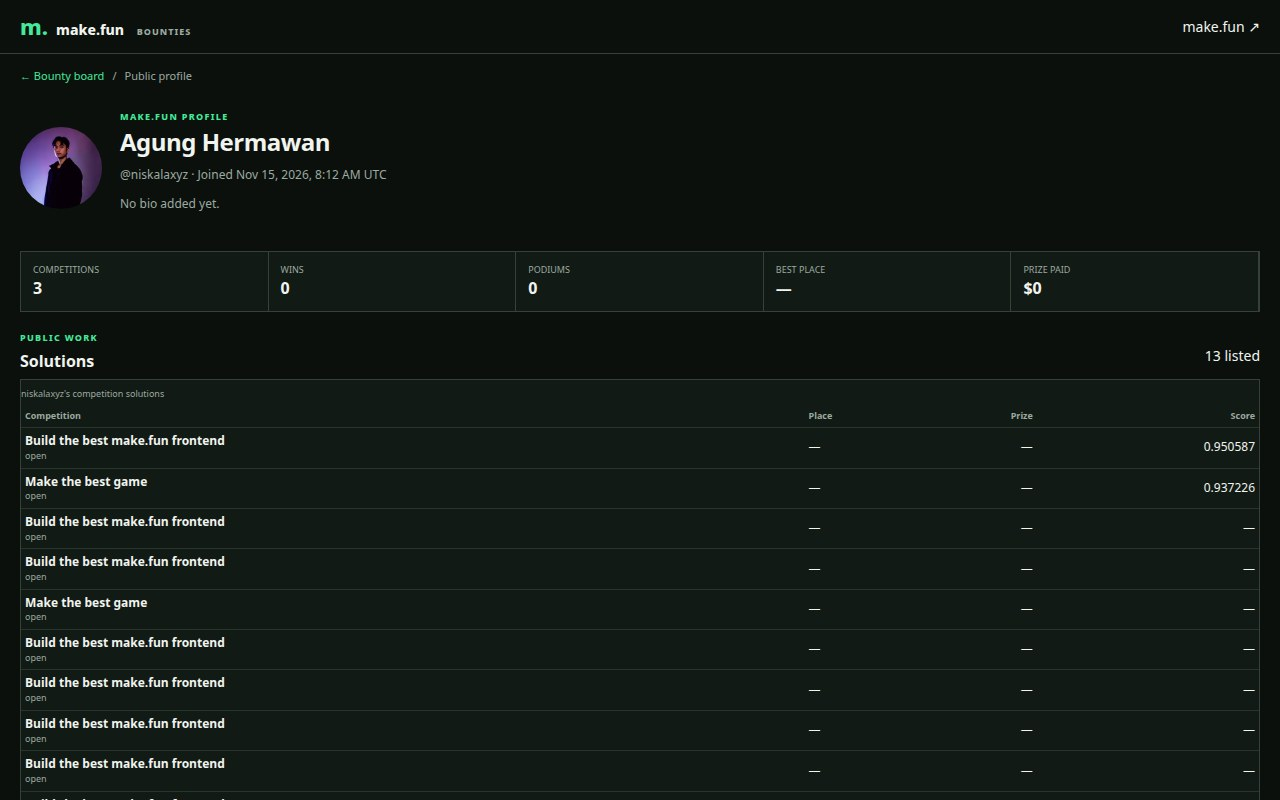
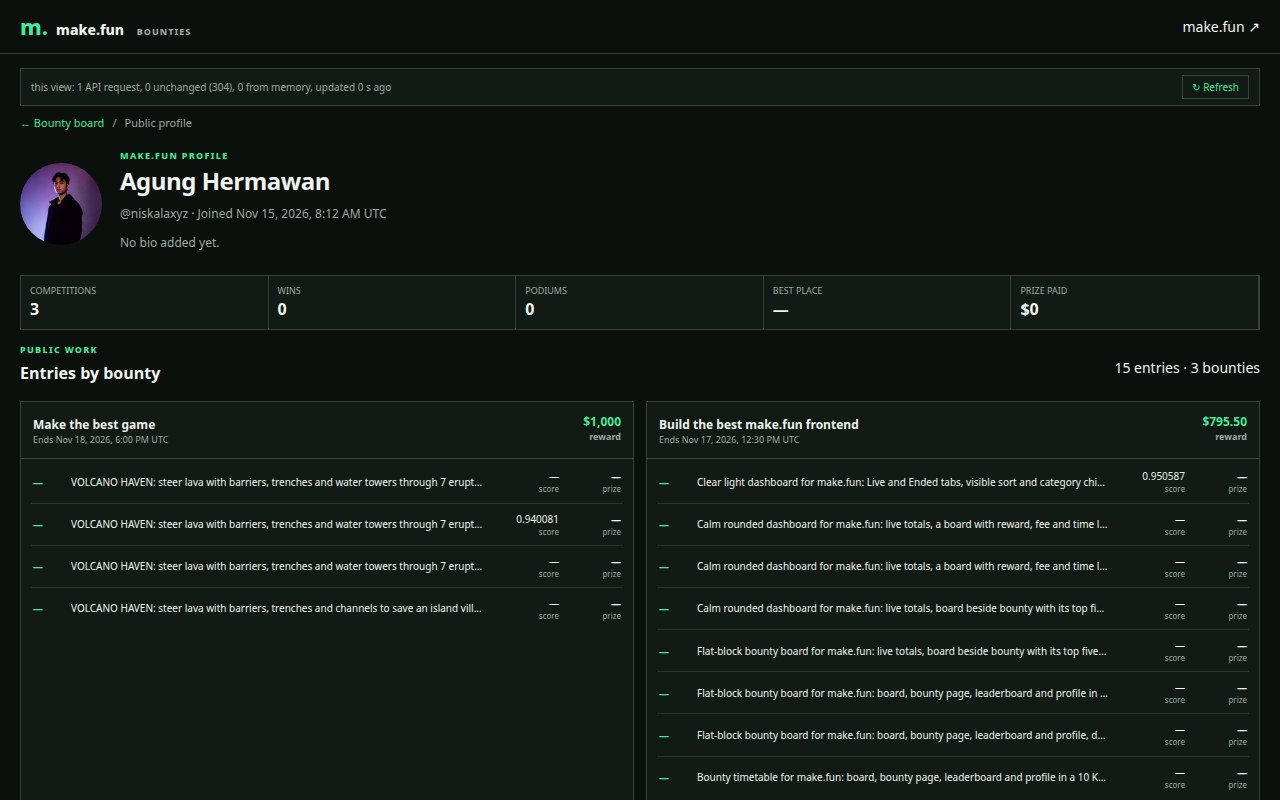
Persistent board rail, rebalanced bounty detail, windowed leaderboard with entrant card, profile cards, request transparency (2,143 gzip)

diff --git a/app/board.js b/app/board.js
@@ -1,14 +1,9 @@
 import {boardData} from './api.js';
-const lazyBountyDetail=()=>import('./bounty.js');
-const esc=x=>String(x??'').replace(/[&<>"']/g,c=>`&#${c.charCodeAt(0)};`);
-const cash=x=>Number(x??0).toLocaleString('en-US',{style:'currency',currency:'USD',minimumFractionDigits:Number.isInteger(Number(x))?0:2});
-const countdown=x=>{let n=new Date(x).getTime()-Date.now();if(!Number.isFinite(n)||n<=0)return'Ended';let d=Math.floor(n/864e5),h=Math.floor(n%864e5/36e5),m=Math.floor(n%36e5/6e4);return d?`${d}d ${h}h`:h?`${h}h ${m}m`:`${m}m`};
-function boardView(data,selected){
- let all=data.items||[],now=Date.now(),items=[...all].sort((a,b)=>(new Date(b.deadline)>now)-(new Date(a.deadline)>now)||new Date(a.deadline)-new Date(b.deadline)),current=items.find(x=>x.slug===selected)||items.find(x=>new Date(x.deadline)>now)||items[0],pot=items.reduce((s,x)=>s+Number(x.potUsd||x.rewardAmount||0),0),entries=items.reduce((s,x)=>s+Number(x.submissionCount||0),0);
- return {current,html:`<div class="board-summary"><span><b>${items.filter(x=>new Date(x.deadline)>now).length}</b>TAKING ENTRIES</span><span><b>${cash(pot)}</b>LIVE POTS</span><span><b>${entries.toLocaleString()}</b>ENTRIES TOTAL</span><span><b>${items.length}</b>BOUNTIES</span></div><div class="split"><section class="list-pane"><div class="tools"><input id="search" type="search" placeholder="Search bounties" aria-label="Search bounties"><select id="sort" aria-label="Sort bounties"><option value="closing">Closing soonest</option><option value="pot">Largest live pot</option><option value="entries">Most entries</option></select><select id="fee" aria-label="Filter entry fee"><option value="any">Any fee</option><option value="free">Free</option><option value="paid">Paid</option></select></div><div class="board-head"><span>Reward · bounty</span><span>Time left</span><span>Entry</span><span>Entries</span></div><ul class="board">${items.map(b=>{
-  let open=new Date(b.deadline)>now,fee=Number(b.entryFeeUsd||0),live=Number(b.potUsd||b.rewardAmount||0),pct=Math.max(2,Math.min(100,(new Date(b.deadline)-now)/((new Date(b.deadline)-new Date(b.publishedAt||now))||1)*100));
-  return `<li class="board-row ${b.slug===current?.slug?'selected':''}" data-title="${esc((b.title+' '+(b.category||'')).toLowerCase())}" data-fee="${fee?1:0}" data-pot="${live}" data-entries="${Number(b.submissionCount||0)}"><a class="title-link" data-pot="${cash(live)} live pot" href="#/bounty/${encodeURIComponent(b.slug)}"><span class="status ${open?'':'closed'}">${open?'TAKING ENTRIES':'CLOSED'} · ${esc(b.category||'BOUNTY')}</span><strong>${esc(b.title)}</strong><small>${esc((b.skills||[]).slice(0,3).join(' · ')||`${b.submissionCount||0} submissions`)}</small></a><div class="deadline" data-deadline="${esc(b.deadline)}">${countdown(b.deadline)}<div class="bar"><i style="width:${pct}%"></i></div></div><div><span class="fee">${fee?cash(fee):'Free'}</span></div><div class="entries">${Number(b.submissionCount||0).toLocaleString()}<small>entries</small></div></li>`
- }).join('')}</ul></section><section class="detail-pane" id="detail"></section></div>`}
-}
-function boardControls(root){const filter=()=>{let q=root.querySelector('#search').value.toLowerCase(),f=root.querySelector('#fee').value,s=root.querySelector('#sort').value,ul=root.querySelector('.board'),rows=[...ul.children];rows.sort((a,b)=>s==='pot'?b.dataset.pot-a.dataset.pot:s==='entries'?b.dataset.entries-a.dataset.entries:0).forEach(x=>ul.append(x));rows.forEach(r=>r.hidden=!(r.dataset.title.includes(q)&&(f==='any'||(f==='free'?r.dataset.fee==='0':r.dataset.fee==='1'))))};root.querySelector('#search').addEventListener('input',filter);root.querySelector('#sort').addEventListener('change',filter);root.querySelector('#fee').addEventListener('change',filter)}
-export async function show(root,selected){let data=await boardData(),view=boardView(data,selected);root.innerHTML=view.html;boardControls(root);if(view.current){let detail=await lazyBountyDetail();await detail.show(root.querySelector('#detail'),view.current.slug,true)}document.title=selected?`${view.current&&view.current.title||'Bounty'} · make.fun`:'Live bounty board | make.fun'}
+import {ready as styleReady} from './ui.js';
+await styleReady;
+const lazyBountyDetail=()=>import('./bounty.js'),lazyLeaderboard=()=>import('./leaderboard.js');
+const esc=x=>String(x??'').replace(/[&<>"']/g,c=>`&#${c.charCodeAt(0)};`),cash=x=>Number(x??0).toLocaleString('en-US',{style:'currency',currency:'USD',minimumFractionDigits:Number.isInteger(Number(x))?0:2});
+const countdown=x=>{let n=new Date(x)-Date.now();if(!Number.isFinite(n)||n<=0)return'Ended';let d=Math.floor(n/864e5),h=Math.floor(n%864e5/36e5),m=Math.floor(n%36e5/6e4);return d?`${d}d ${h}h`:h?`${h}h ${m}m`:`${m}m`};
+function rail(items,current){let now=Date.now();return `<section class="list-pane"><div class="rail-title"><b>Live board</b><span>${items.length} bounties</span></div><div class="tools"><div class="rail-tabs"><button class="active" data-state="live">Live</button><button data-state="ended">Ended</button></div><input id="search" type="search" placeholder="Filter bounties" aria-label="Filter bounties"><select id="sort"><option value="closing">Closing</option><option value="pot">Largest pot</option><option value="entries">Most entries</option></select></div><div class="board">${items.map(b=>{let open=new Date(b.deadline)>now,fee=Number(b.entryFeeUsd||0),pot=Number(b.potUsd||b.rewardAmount||0),soon=open&&new Date(b.deadline)-now<864e5;return `<a class="board-row ${b.slug===current?'selected':''}" data-state="${open?'live':'ended'}" data-title="${esc(b.title.toLowerCase())}" data-pot="${pot}" data-entries="${Number(b.submissionCount||0)}" href="#/bounty/${encodeURIComponent(b.slug)}"><span class="row-main"><i class="status ${open?'':'closed'}">${open?'LIVE':'ENDED'} ${soon?'· CLOSING SOON':''}</i><b>${esc(b.title)}</b><small>${esc(b.category||'Bounty')}</small></span><span class="rail-pot">${cash(pot)}<small>pot · ${fee?cash(fee):'free'} fee</small></span><span class="rail-time" data-deadline="${esc(b.deadline)}">${countdown(b.deadline)}<small>${Number(b.submissionCount||0).toLocaleString()} entries</small></span></a>`}).join('')}</div></section>`}
+function controls(root){let category='All',rows=[...root.querySelectorAll('.board-row')],categories=['All',...new Set(rows.map(r=>r.querySelector('.row-main small').textContent))],chips=document.createElement('div');chips.className='category-chips';chips.innerHTML=categories.map((x,i)=>`<button class="${i?'':'active'}" data-category="${esc(x)}">${esc(x)}</button>`).join('');root.querySelector('.tools').after(chips);let apply=()=>{let q=root.querySelector('#search').value.toLowerCase(),sort=root.querySelector('#sort').value,list=root.querySelector('.board');rows=[...list.children];rows.sort((a,b)=>sort==='pot'?b.dataset.pot-a.dataset.pot:sort==='entries'?b.dataset.entries-a.dataset.entries:new Date(a.querySelector('[data-deadline]')?.dataset.deadline||0)-new Date(b.querySelector('[data-deadline]')?.dataset.deadline||0)).forEach(x=>list.append(x));rows.forEach(r=>r.hidden=!(r.dataset.title.includes(q)&&(category==='All'||r.querySelector('.row-main small').textContent===category)&&(root.dataset.state==='ended'?r.dataset.state==='ended':r.dataset.state==='live')))};root.querySelector('#search').addEventListener('input',apply);root.querySelector('#sort').addEventListener('change',apply);chips.addEventListener('click',e=>{let b=e.target.closest('button');if(!b)return;category=b.dataset.category;chips.querySelectorAll('button').forEach(x=>x.classList.toggle('active',x===b));apply()});root.querySelectorAll('[data-state]').forEach(b=>b.addEventListener('click',()=>{if(b.tagName==='BUTTON'){root.dataset.state=b.dataset.state;root.querySelectorAll('.rail-tabs button').forEach(x=>x.classList.toggle('active',x===b));apply()}}));}
+export async function show(root,selected,leaderboard=false){let data=await boardData(),items=data.items||[],now=Date.now(),sorted=[...items].sort((a,b)=>(new Date(b.deadline)>now)-(new Date(a.deadline)>now)||new Date(a.deadline)-new Date(b.deadline)),current=sorted.find(x=>x.slug===selected)||sorted.find(x=>new Date(x.deadline)>now)||sorted[0];root.innerHTML=`<div class="board-summary"><span><b>${sorted.filter(x=>new Date(x.deadline)>now).length}</b>LIVE</span><span><b>${cash(sorted.reduce((s,x)=>s+Number(x.potUsd||x.rewardAmount||0),0))}</b>LIVE POTS</span><span><b>${sorted.reduce((s,x)=>s+Number(x.submissionCount||0),0).toLocaleString()}</b>ENTRIES</span><span><b>${sorted.length}</b>BOUNTIES</span></div><div class="split">${rail(sorted,current?.slug)}<section class="detail-pane" id="detail"></section></div>`;controls(root);let detail=root.querySelector('#detail');if(leaderboard){let view=await lazyLeaderboard();await view.show(detail,selected||current?.slug)}else if(current){let view=await lazyBountyDetail();await view.show(detail,current.slug,true)}document.title=leaderboard?'Live leaderboard | make.fun':`${current?.title||'Live bounty board'} | make.fun`}

diff --git a/app/style.css b/app/style.css
@@ -3,3 +3,8 @@
 .title-link:before{content:attr(data-pot) " ·";display:inline;color:var(--g);font-size:8px;font-weight:800;margin-right:4px}.title-link strong{font-size:10px}.split{grid-template-columns:48% 52%}.board-head,.board-row{grid-template-columns:minmax(0,1fr) 62px 46px 54px;gap:5px}.board-row{padding:7px 8px}.status{font-size:7px}
 .detail-stats{border:1px solid var(--l);background:var(--p);margin:9px 0;padding:10px 12px;gap:8px}.detail-stats span{font-weight:800;letter-spacing:.45px}.detail-stats b{display:block;color:#fff;font-size:19px;line-height:1.2;margin-top:3px}.detail-stats>div:first-child b{color:var(--g)}.reward-card{margin:0 0 8px;padding:12px 14px}.reward-card h2{font-size:15px;margin:0 0 5px}.reward-card table{font-size:11px}.reward-card th,.reward-card td{padding:6px 7px}.pot-note{margin:0 0 9px}.detail-copy h2{margin:8px 0 4px}.prose{margin:0 0 8px;max-height:190px}.rules{margin:0 0 7px}
 .reward-card th,.reward-card td{padding:2px 5px;line-height:1.15}
+.transparency{display:flex;justify-content:space-between;align-items:center;background:#121a15;border:1px solid var(--l);padding:6px 10px;margin-bottom:9px;color:var(--m);font-size:10px}.transparency button,.rail-tabs button{background:transparent;color:var(--g);border:1px solid var(--l);padding:4px 9px;cursor:pointer;font:inherit}.board-summary{margin-bottom:8px}.split{grid-template-columns:39% 61%;min-height:670px}.list-pane{max-height:710px;overflow:auto}.rail-title{display:flex;justify-content:space-between;padding:10px 12px;color:var(--g)}.rail-title span{color:var(--m);font-size:10px}.tools{display:grid;grid-template-columns:auto minmax(80px,1fr) auto;align-items:center}.rail-tabs{display:flex;gap:3px}.rail-tabs button.active{background:var(--g);color:#06100a}.tools select{max-width:115px}.board-row{display:grid;grid-template-columns:minmax(0,1fr) 102px 78px;gap:8px;text-decoration:none}.row-main b,.row-main small,.rail-pot small,.rail-time small{display:block}.row-main b{font-size:11px;line-height:1.25}.row-main small,.rail-pot small,.rail-time small{color:var(--m);font-size:9px}.rail-pot{color:var(--g);font-size:11px;font-weight:700}.rail-time{text-align:right;font-size:10px}.status{font-size:8px}.detail-pane{padding:16px 18px}.lead{font-size:11px;color:var(--m);margin:0;max-width:470px}.enter{white-space:nowrap;align-self:center;margin:0}.detail-stats{grid-template-columns:repeat(4,minmax(0,1fr));padding:9px}.detail-stats b{font-size:16px}.detail-stats small{display:block;color:var(--m);font-size:9px;line-height:1.3}.detail-tabs{display:flex;gap:18px;border-bottom:1px solid var(--l);margin:0 0 10px}.detail-tabs a{padding:6px 2px;color:var(--m);font-size:10px}.detail-tabs a.active{color:var(--g);border-bottom:2px solid var(--g)}.prize-layout{display:grid;grid-template-columns:minmax(0,1.2fr) minmax(190px,.8fr);gap:10px}.reward-card,.phase-card{background:var(--p);padding:11px;border:1px solid var(--l);min-width:0}.reward-card h2,.phase-card h2{font-size:13px}.reward-head,.reward-band{display:grid;grid-template-columns:55px minmax(30px,1fr) 54px 58px 58px;gap:5px;align-items:center}.reward-head{color:var(--m);font-size:8px;border-bottom:1px solid var(--l);padding:4px 0}.reward-band{font-size:9px;padding:6px 0;border-bottom:1px solid #28352d}.reward-band>span:first-child{color:var(--g);font-weight:800}.reward-band strong{text-align:right;font-size:9px}.reward-band i{height:5px;background:#334239;border-radius:4px;overflow:hidden}.reward-band i b{display:block;height:100%;background:var(--g);border-radius:4px}.tiny-note{font-size:8px;color:var(--m);margin:6px 0 0}.phase-list{display:grid;gap:4px}.phase-list p{display:grid;grid-template-columns:9px 1fr auto;gap:5px;align-items:center;margin:0;font-size:9px;color:var(--m);padding:3px 0}.phase-list i{width:6px;height:6px;border:1px solid #718078;border-radius:50%}.phase-list b{font-size:9px;color:var(--t);text-align:right}.phase-list .now i{background:var(--g);border-color:var(--g)}.phase-list .now span,.phase-list .now b{color:var(--g)}.detail-copy{margin-top:12px}.detail-copy h2{font-size:13px}.detail-copy .prose{font-size:10px;max-height:130px}.leader-hero{margin:8px 0}.leader-hero p:last-child{color:var(--m);font-size:11px;margin:0}.leader-stats{display:grid;grid-template-columns:repeat(4,1fr);border:1px solid var(--l);background:var(--p);margin:10px 0}.leader-stats>div{padding:10px;border-right:1px solid var(--l)}.leader-stats span,.card-stat span{display:block;color:var(--m);font-size:8px;letter-spacing:.6px}.leader-stats b{font-size:15px}.leader-stats small{font-size:10px;color:var(--g)}.leader-filter{display:flex;justify-content:space-between;align-items:end;margin:8px 0}.leader-filter label{display:flex;align-items:center;gap:8px;font-size:10px;color:var(--m)}.leader-filter input{width:220px}.leader-filter>span{color:var(--m);font-size:9px}.leader-layout{display:grid;grid-template-columns:minmax(0,1fr) 245px;gap:12px}.virtual-list{height:480px;overflow:auto;border:1px solid var(--l);background:var(--p)}.virtual-head,.leader-row{display:grid;grid-template-columns:45px minmax(130px,1fr) minmax(120px,1fr) 65px 64px;gap:8px;align-items:center}.virtual-head{position:sticky;top:0;z-index:2;background:#1a241d;color:var(--m);font-size:8px;padding:8px}.leader-row{width:100%;height:65px;text-align:left;background:transparent;border:0;border-top:1px solid #28352d;color:var(--t);padding:6px 8px;font:inherit;cursor:pointer;font-size:10px}.leader-row:hover,.leader-row.chosen{background:#183328}.leader-row span:nth-child(2) b,.leader-row small{display:block}.leader-row small{font-size:8px;color:var(--m);white-space:nowrap;overflow:hidden;text-overflow:ellipsis}.rank{color:var(--g);font-weight:800}.score-cell{font-variant-numeric:tabular-nums}.entrant-card{border:1px solid var(--l);background:var(--p);padding:14px;align-self:start;min-height:300px}.entrant-card .avatar{width:54px;height:54px;float:right}.entrant-card h2{font-size:16px}.entrant-card>.muted{font-size:10px}.card-stat{display:flex;justify-content:space-between;border-top:1px solid #28352d;padding:7px 0;gap:8px}.card-stat b{text-align:right;font-size:10px}.card-stat b small{display:block;color:var(--m);font-size:8px;font-weight:400}.entrant-card .button{clear:both}.solution-grid{display:grid;grid-template-columns:repeat(2,minmax(0,1fr));gap:12px;margin-top:10px}.solution-card{border:1px solid var(--l);background:var(--p);min-width:0}.solution-card header{display:flex;justify-content:space-between;gap:8px;padding:12px;border-bottom:1px solid var(--l)}.solution-card header a{font-weight:700;font-size:12px}.solution-card header small{display:block;color:var(--m);font-size:9px}.solution-card header strong{text-align:right;color:var(--g);font-size:12px;white-space:nowrap}.card-entries{padding:2px 10px}.solution-entry{display:grid;grid-template-columns:30px minmax(0,1fr) 68px 54px;gap:8px;align-items:center;padding:8px 2px;border-bottom:1px solid #28352d;font-size:10px}.solution-entry:last-child{border:0}.solution-entry .place{color:var(--g);font-weight:800}.solution-entry .entry-title{white-space:nowrap;overflow:hidden;text-overflow:ellipsis}.solution-entry .entry-score,.solution-entry>b{text-align:right;font-variant-numeric:tabular-nums}.solution-entry small{display:block;color:var(--m);font-size:8px;font-weight:400}.profile-head{padding:10px 0}.profile-head .bio{margin:5px 0}.record{margin:8px 0 14px}.record>div{padding:9px}
+@media(max-width:900px){.split{grid-template-columns:1fr}.list-pane{max-height:440px;border-right:0;border-bottom:1px solid var(--l)}.detail-pane{padding:14px}.leader-layout{grid-template-columns:1fr}.entrant-card{display:grid;grid-template-columns:1fr 1fr}.prize-layout{grid-template-columns:1fr}.solution-grid{grid-template-columns:1fr}}
+.category-chips{display:flex;gap:5px;overflow:auto;padding:5px 8px;border-bottom:1px solid var(--l);scrollbar-width:thin}.category-chips button{white-space:nowrap;border:1px solid #354139;border-radius:12px;background:#111913;color:#b6c3ba;font:9px system-ui;padding:3px 9px;cursor:pointer}.category-chips button.active,.category-chips button:hover{background:#45e99a;color:#07110b;border-color:#45e99a;font-weight:700}
+.prose h1,.prose h2,.prose h3,.prose h4,.prose h5,.prose h6{font-size:inherit;line-height:inherit;margin:7px 0 3px;color:var(--t)}.prose h1{font-size:14px}.prose h2{font-size:13px}
+.rules h1,.rules h2,.rules h3,.rules h4,.rules h5,.rules h6{font:inherit;color:var(--t);margin:5px 0 2px}

diff --git a/app/leaderboard.js b/app/leaderboard.js
@@ -1,43 +1,8 @@
-import { leaderboardData } from './api.js';
-import { esc, money } from './format.js';
-
-export async function show(root, slug) {
-  const data = await leaderboardData(slug);
-  const entries = data.entries || [];
-  const columns = (data.columns || []).filter((c) => !c.hidden);
-  const cols = columns.length ? columns : [{ key: 'score', title: 'Score', source: '', precision: 2 }];
-  const record = entries.some((e) => e.record || e.judgeRecord || e.judge);
-  const pages = Math.max(1, Math.ceil(entries.length / 50));
-  let page = 0;
-  const heading = data.competition?.title || data.title || slug;
-  document.title = `Leaderboard · ${heading} | make.fun`;
-  root.innerHTML = `<nav class="crumb"><a href="#/bounty/${encodeURIComponent(slug)}">← ${esc(heading)}</a><span>/</span><span>Leaderboard</span></nav><section class="table-hero"><div><p class="eyebrow">LIVE STANDINGS</p><h1>${esc(heading)}</h1><p>Entries are ranked on the competition's published scoring columns.</p></div><strong>${entries.length.toLocaleString()} <small>entries</small></strong></section>
-    <div class="table-wrap"><table class="leader-table"><caption>${esc(heading)} leaderboard · ${entries.length.toLocaleString()} entries</caption><thead><tr><th scope="col">Rank</th><th scope="col">Entrant</th>${cols.map((c) => `<th scope="col" class="num">${esc(c.title || c.key)}</th>`).join('')}${record ? '<th scope="col">W–D–L</th>' : ''}</tr></thead><tbody id="leader-rows"></tbody></table></div>
-    <div class="pager"><button type="button" data-page="-1" aria-label="Previous page">← Previous</button><span id="page-label"></span><button type="button" data-page="1" aria-label="Next page">Next →</button></div>`;
-  const body = root.querySelector('#leader-rows'), label = root.querySelector('#page-label');
-  function paint() {
-    const batch = entries.slice(page * 50, (page + 1) * 50);
-    body.innerHTML = batch.map((e, i) => {
-      const handle = e.handle || 'unknown', values = e.values || {};
-      const rec = e.judgeRecord || e.judge || e.record || {};
-      return `<tr><td class="rank">${esc(e.rank ?? page * 50 + i + 1)}</td><td><a class="entrant" href="#/profile/${encodeURIComponent(handle)}">${esc(handle)}</a><small>${esc(e.title || e.status || '')}</small></td>${cols.map((c) => {
-        let v = values[c.key] ?? e[c.key];
-        if (v == null) return '<td class="num">—</td>';
-        if (String(c.source || '').toLowerCase().includes('micro')) v = Number(v) / 1000000;
-        const n = Number(v);
-        const formatted = Number.isFinite(n) ? n.toLocaleString('en-US', { maximumFractionDigits: String(c.source || '').toLowerCase().includes('micro') ? 6 : c.precision ?? 4 }) : esc(v);
-        return `<td class="num">${formatted}</td>`;
-      }).join('')}${record ? `<td>${esc(rec.wins ?? 0)}–${esc(rec.draws ?? 0)}–${esc(rec.losses ?? 0)}</td>` : ''}</tr>`;
-    }).join('');
-    label.textContent = `Page ${page + 1} of ${pages}`;
-    root.querySelector('[data-page="-1"]').disabled = page === 0;
-    root.querySelector('[data-page="1"]').disabled = page === pages - 1;
-  }
-  root.querySelector('.pager').addEventListener('click', (event) => {
-    const button = event.target.closest('button[data-page]');
-    if (!button || button.disabled) return;
-    page = Math.min(pages - 1, Math.max(0, page + Number(button.dataset.page)));
-    paint();
-  });
-  paint();
+import {leaderboardData,bountyData} from './api.js';import {esc,money,image,left} from './format.js';
+export async function show(root,slug){let [data,b]=await Promise.all([leaderboardData(slug),bountyData(slug)]),entries=data.entries||[],cols=(data.columns||[]).filter(c=>!c.hidden),key=cols.find(c=>c.key==='judge')?.key||cols[0]?.key||'score',selected=entries[0]||null,query='';let heading=data.competition?.title||data.title||slug;
+const val=(e,k)=>Number(e?.values?.[k]??e?.[k]??0),score=e=>val(e,key),fmt=n=>(n/1e6).toFixed(6),record=e=>e?.judgeRecord||e?.judge||e?.record||{},prize=e=>{let x=Number(e?.prizeUsd??e?.prize_usd??0);return x?money(x):'—'};
+document.title=`Leaderboard · ${heading} | make.fun`;root.innerHTML=`<nav class="crumb"><a href="#/bounty/${encodeURIComponent(slug)}">← ${esc(heading)}</a><span>/</span><span>Leaderboard</span></nav><header class="leader-hero"><div><p class="eyebrow">LIVE STANDINGS</p><h1>${esc(heading)}</h1><p>Ranked by the published judge score · ${entries.length.toLocaleString()} entries</p></div></header><section class="leader-stats"><div><span>LIVE POT</span><b>${money(b.potUsd??b.rewardAmount)}</b></div><div><span>TIME LEFT</span><b data-deadline="${esc(b.deadline)}">${left(b.deadline)}</b></div><div><span>RANKED ENTRIES</span><b>${entries.length.toLocaleString()}</b></div><div><span>LEADER</span><b>${esc(entries[0]?.handle||'—')} <small>${entries[0]?fmt(score(entries[0])):''}</small></b></div></section><div class="leader-filter"><label>Find an entrant<input id="entrant-search" type="search" placeholder="Filter by handle"></label><span id="window-label"></span></div><div class="leader-layout"><div class="virtual-list"><div class="virtual-head"><span>Rank</span><span>Entrant</span><span>Judge score · 90% range</span><span>W–D–L</span><span>Prize</span></div><div id="leader-rows"></div></div><aside id="entrant-card" class="entrant-card"></aside></div>`;
+let body=root.querySelector('#leader-rows'),label=root.querySelector('#window-label'),filtered=entries;function renderCard(e){if(!e){root.querySelector('#entrant-card').innerHTML='<p>Select an entrant to inspect their profile.</p>';return}let r=record(e),lo=Number(e.interval?.low??e.values?.judge_low??e.judge_low??score(e)),hi=Number(e.interval?.high??e.values?.judge_high??e.judge_high??score(e));root.querySelector('#entrant-card').innerHTML=`${image(e.image,e.handle,'avatar')}<p class="eyebrow">SELECTED ENTRANT</p><h2>${esc(e.handle||'unknown')}</h2><p class="muted">${esc(e.bio||'Public make.fun entrant')}</p><div class="card-stat"><span>RANK</span><b>#${esc(e.rank??'—')} <small>of ${entries.length.toLocaleString()}</small></b></div><div class="card-stat"><span>SCORE · 90% RANGE</span><b>${fmt(score(e))}<small>${fmt(lo)} – ${fmt(hi)}</small></b></div><div class="card-stat"><span>RECORD</span><b>${r.wins??0}–${r.draws??0}–${r.losses??0}</b></div><div class="card-stat"><span>PRIZE</span><b>${prize(e)}</b></div><div class="card-stat"><span>ENTERED</span><b>${e.received_at?new Date(e.received_at).toLocaleDateString('en-US',{dateStyle:'medium'}):'—'}</b></div><a class="button" href="#/profile/${encodeURIComponent(e.handle||'')}">Open full profile ↗</a>`}
+function paint(){let lineHeight=72,viewport=560,start=Math.max(0,Math.floor((root.querySelector('.virtual-list').scrollTop||0)/lineHeight)-3),count=Math.ceil(viewport/lineHeight)+7,end=Math.min(filtered.length,start+count);body.innerHTML=filtered.slice(start,end).map((e,i)=>{let rank=e.rank??start+i+1,r=record(e),lo=Number(e.interval?.low??e.values?.judge_low??score(e)),hi=Number(e.interval?.high??e.values?.judge_high??score(e));return `<button class="leader-row ${selected===e?'chosen':''}" data-index="${start+i}"><span class="rank">#${esc(rank)}</span><span><b>${esc(e.handle||'unknown')}</b><small>${esc(e.title||e.status||'Entry')}</small></span><span class="score-cell">${fmt(score(e))}<small>${fmt(lo)} – ${fmt(hi)}</small></span><span>${r.wins??0}–${r.draws??0}–${r.losses??0}</span><strong>${prize(e)}</strong></button>`}).join('');label.textContent=`Rows ${filtered.length?start+1:0} to ${end} of ${filtered.length.toLocaleString()} · ${end-start} in the DOM`;body.querySelectorAll('.leader-row').forEach(row=>row.addEventListener('click',()=>{selected=filtered[Number(row.dataset.index)];paint();renderCard(selected)}))}
+root.querySelector('.virtual-list').addEventListener('scroll',paint);root.querySelector('#entrant-search').addEventListener('input',e=>{query=e.target.value.toLowerCase();filtered=entries.filter(x=>(x.handle||'').toLowerCase().includes(query));root.querySelector('.virtual-list').scrollTop=0;paint()});renderCard(selected);paint();
 }

diff --git a/app/profile.js b/app/profile.js
@@ -1,15 +1,2 @@
-import { profileData } from './api.js';
-import { date, esc, image, money } from './format.js';
-
-export async function show(root, handle) {
-  const p = await profileData(handle);
-  const displayName = p.displayName || p.display_name || p.handle || handle;
-  document.title = `${displayName} | make.fun`;
-  const stats = p.record || {};
-  const solutions = p.solutions || [];
-  const links = [(p.githubLogin || p.github_login) && ['GitHub', `https://github.com/${p.githubLogin || p.github_login}`], p.discord && ['Discord', `https://discord.com/users/${p.discord}`], p.x && ['X', p.x.startsWith('http') ? p.x : `https://x.com/${p.x.replace(/^@/, '')}`], p.wallet && ['Wallet', p.wallet.explorerUrl || p.wallet.explorer_url]].filter(Boolean);
-  const value = (a, b) => a ?? b;
-  root.innerHTML = `<nav class="crumb"><a href="#/">← Bounty board</a><span>/</span><span>Public profile</span></nav><section class="profile-head">${image(p.avatar?.url || p.image, displayName, 'avatar')}<div class="profile-name"><p class="eyebrow">MAKE.FUN PROFILE</p><h1>${esc(displayName)} ${p.house ? '<span class="house">HOUSE</span>' : ''}</h1><p class="handle">@${esc(p.handle || handle)}${(p.joinedAt || p.joined_at) ? ` · Joined ${date(p.joinedAt || p.joined_at)}` : ''}</p><p class="bio">${esc(p.bio || 'No bio added yet.')}</p><div class="socials">${links.map(([label, url]) => url ? `<a href="${esc(url)}" target="_blank" rel="noreferrer">${label} ↗</a>` : '').join('')}</div></div></section>
-    <section class="record"><div><span>COMPETITIONS</span><strong>${Number(value(stats.entered, stats.competitionsEntered ?? stats.competitions_entered) || 0).toLocaleString()}</strong></div><div><span>WINS</span><strong>${Number(value(stats.won, stats.competitionsWon ?? stats.competitions_won) || 0).toLocaleString()}</strong></div><div><span>PODIUMS</span><strong>${Number(value(stats.podiums, stats.podium_finishes) || 0).toLocaleString()}</strong></div><div><span>BEST PLACE</span><strong>${value(stats.bestPlacement, stats.best_placement) ? `#${esc(value(stats.bestPlacement, stats.best_placement))}` : '—'}</strong></div><div><span>PRIZE PAID</span><strong>${money(value(stats.prizeUsd, stats.prize_usd ?? stats.prizeDollars) || 0)}</strong></div></section>
-    <section class="solutions"><div class="section-title"><div><p class="eyebrow">PUBLIC WORK</p><h2>Solutions</h2></div><span>${solutions.length} listed</span></div><div class="table-wrap"><table><caption>${esc(p.handle || handle)}'s competition solutions</caption><thead><tr><th scope="col">Competition</th><th scope="col">Place</th><th scope="col" class="num">Prize</th><th scope="col" class="num">Score</th></tr></thead><tbody>${solutions.map((s) => { const prize = value(s.prize, s.prize_usd); let score = s.score?.display ?? s.score?.value ?? s.score; if (s.score?.column?.source?.toLowerCase().includes('micro') && Number.isFinite(Number(score))) score = (Number(score) / 1000000).toLocaleString('en-US', { maximumFractionDigits: 6 }); return `<tr><td><a class="competition" href="#/bounty/${encodeURIComponent(s.competition?.slug || '')}">${esc(s.competition?.title || s.title || 'Competition')}</a><small>${esc(s.competition?.status || '')}</small></td><td>${s.placement ? `#${esc(s.placement)}` : '—'}</td><td class="num">${prize != null ? money(prize) : '—'}</td><td class="num">${score == null ? '—' : esc(score)}</td></tr>`; }).join('') || '<tr><td colspan="4" class="empty">No public solutions yet.</td></tr>'}</tbody></table></div></section>`;
-}
+import {profileData} from './api.js';import {date,esc,image,money} from './format.js';import {ready as styleReady} from './ui.js';await styleReady;
+export async function show(root,handle){let p=await profileData(handle),name=p.displayName||p.display_name||p.handle||handle,stats=p.record||{},solutions=p.solutions||[],groups=new Map();for(let s of solutions){let c=s.competition||{},key=c.slug||c.title||'other';if(!groups.has(key))groups.set(key,{competition:c,entries:[]});groups.get(key).entries.push(s)}let cards=[...groups.values()].map(g=>{g.entries.sort((a,b)=>(Number(a.placement)||9999)-(Number(b.placement)||9999));let c=g.competition;return `<article class="solution-card"><header><div><a href="#/bounty/${encodeURIComponent(c.slug||'')}">${esc(c.title||'Competition')}</a><small>${c.deadline?`Ends ${date(c.deadline)}`:'Competition entries'}</small></div><strong>${money(c.pot_usd??c.reward_usd??0)}<small>reward</small></strong></header><div class="card-entries">${g.entries.map(s=>{let v=s.score?.display??s.score?.value??s.score,score=s.score?.column?.source?.toLowerCase().includes('micro')&&Number.isFinite(Number(v))?(Number(v)/1e6).toFixed(6):v;return `<div class="solution-entry"><span class="place">${s.placement?`#${esc(s.placement)}`:'—'}</span><span class="entry-title">${esc(s.title||'Untitled entry')}</span><span class="entry-score">${score==null?'—':esc(score)}<small>score</small></span><b>${s.prize_usd||s.prize?money(s.prize_usd??s.prize):'—'}<small>prize</small></b></div>`}).join('')}</div></article>`}).join('');document.title=`${name} | make.fun`;root.innerHTML=`<nav class="crumb"><a href="#/">← Bounty board</a><span>/</span><span>Public profile</span></nav><section class="profile-head">${image(p.avatar?.url||p.image,name,'avatar')}<div class="profile-name"><p class="eyebrow">MAKE.FUN PROFILE</p><h1>${esc(name)} ${p.house?'<span class="house">HOUSE</span>':''}</h1><p class="handle">@${esc(p.handle||handle)}${p.joinedAt||p.joined_at?` · Joined ${date(p.joinedAt||p.joined_at)}`:''}</p><p class="bio">${esc(p.bio||'No bio added yet.')}</p></div></section><section class="record"><div><span>COMPETITIONS</span><strong>${Number(stats.entered??stats.competitionsEntered??stats.competitions_entered??0).toLocaleString()}</strong></div><div><span>WINS</span><strong>${Number(stats.won??stats.competitionsWon??stats.competitions_won??0).toLocaleString()}</strong></div><div><span>PODIUMS</span><strong>${Number(stats.podiums??stats.podium_finishes??stats.podium_finishes??0).toLocaleString()}</strong></div><div><span>BEST PLACE</span><strong>${stats.bestPlacement||stats.best_placement?`#${esc(stats.bestPlacement||stats.best_placement)}`:'—'}</strong></div><div><span>PRIZE PAID</span><strong>${money(stats.prizeUsd??stats.prize_usd??0)}</strong></div></section><section class="solutions"><div class="section-title"><div><p class="eyebrow">PUBLIC WORK</p><h2>Entries by bounty</h2></div><span>${solutions.length} entries · ${groups.size} bounties</span></div><div class="solution-grid">${cards||'<p class="empty">No public entries yet.</p>'}</div></section>`}

diff --git a/app/bounty.js b/app/bounty.js
@@ -1,15 +1,13 @@
 import {bountyData} from './api.js';
 import {date,esc,left,money,pot} from './format.js';
-
+const description=x=>String(x??'').split('\n').map(line=>{let heading=line.match(/^(#{1,6})\s+(.+)\s*$/);return heading?`<h${heading[1].length}>${esc(heading[2])}</h${heading[1].length}>`:esc(line)}).join('<br>');
 export async function show(root,slug,embedded=false){
- const b=await bountyData(slug),rewards=b.rewardsNow||b.rewardsByPlace||b.rewards||b.payouts||[];
- const rows=Array.isArray(rewards)?rewards.map((r,i)=>`<tr><td>${esc(r.place??i+1)}</td><td>${esc(r.label||r.title||`Place ${r.place??i+1}`)}</td><td class="num">${money(r.baseUsd??r.amountUsd??r.rewardUsd??r.amount??r.usd)}</td><td class="num">${money(r.feeShareUsd||0)}</td><td class="num">${money(r.amountUsd??r.rewardUsd??r.amount??r.usd)}</td></tr>`).join(''):Object.entries(rewards).map(([p,v])=>`<tr><td>${esc(p)}</td><td>Place ${esc(p)}</td><td class="num">${money(v)}</td><td class="num">—</td><td class="num">${money(v)}</td></tr>`).join('');
- const open=new Date(b.deadline)>Date.now();document.title=`${b.title} | make.fun`;
- root.innerHTML=`${embedded?'':`<nav class="crumb"><a href="#/">← All bounties</a><span>/</span><span>${esc(b.title)}</span></nav>`}
- <div class="detail-top"><div><p class="eyebrow">BOUNTY DETAILS</p><h1>${esc(b.title)}</h1><span class="badge">${open?'TAKING ENTRIES':'CLOSED'} · ${esc(b.category||'COMPETITION')}</span></div><a class="badge" href="#/bounty/${encodeURIComponent(slug)}/leaderboard">LEADERBOARD →</a></div>
- <div class="detail-stats"><div><span>LIVE POT</span><b>${pot(b)}</b></div><div><span>TIME LEFT</span><b data-deadline="${esc(b.deadline)}">${left(b.deadline)}</b></div><div><span>ENTRY FEE</span><b>${b.entryFeeUsd!=null?money(b.entryFeeUsd):'Free'}</b></div><div><span>ENTRIES</span><b>${Number(b.submissionCount||0).toLocaleString()}</b></div></div>
- <section class="reward-card"><h2>Rewards at the live pot</h2><table><caption>${pot(b)} live pot · base award plus fee share</caption><thead><tr><th scope="col">Place</th><th scope="col">Award</th><th scope="col" class="num">Base</th><th scope="col" class="num">Fees</th><th scope="col" class="num">Total</th></tr></thead><tbody>${rows||`<tr><td colspan="5">${money(b.rewardAmount)} prize pool</td></tr>`}</tbody></table><a class="button" href="#/bounty/${encodeURIComponent(slug)}/leaderboard">View all ${Number(b.submissionCount||0).toLocaleString()} entries</a></section>
- <p class="pot-note">${money(b.rewardAmount||0)} base rewards + ${money(b.entryFeesUsd||0)} in entry fees · ${Number(b.entryFeePayers||0).toLocaleString()} fee payers</p>
- <article class="detail-copy"><h2>Challenge</h2><p class="prose">${esc(b.description||b.summary||'')}</p>${b.rules?`<h2>Rules</h2><pre class="rules">${esc(b.rules)}</pre>`:''}<p class="dates">Opens ${date(b.openingTime||b.opensAt||b.publishedAt)} · Deadline ${date(b.deadline)}</p></article>`;
- return b
+ const b=await bountyData(slug),raw=b.rewardsNow||b.rewardsByPlace||b.rewards||b.payouts||[],rows=Array.isArray(raw)?raw:Object.entries(raw).map(([place,amount])=>({place,baseUsd:amount,amountUsd:amount})),top=Math.max(1,...rows.map(x=>Number(x.amountUsd??x.rewardUsd??x.amount??x.usd??0)));
+ const bands=[['#1',rows.filter(x=>Number(x.place)===1)],['#2',rows.filter(x=>Number(x.place)===2)],['#3',rows.filter(x=>Number(x.place)===3)],['#4–#10',rows.filter(x=>Number(x.place)>=4&&Number(x.place)<=10)],['#11–#20',rows.filter(x=>Number(x.place)>=11)]];
+ let grouped=bands.filter(x=>x[1].length).map(([label,items])=>{let base=items.reduce((s,r)=>s+Number(r.baseUsd??r.amountUsd??r.rewardUsd??r.amount??r.usd??0),0),fee=items.reduce((s,r)=>s+Number(r.feeShareUsd||0),0),total=items.reduce((s,r)=>s+Number(r.amountUsd??r.rewardUsd??r.amount??r.usd??0),0);return `<div class="reward-band"><span>${label}</span><i><b style="width:${Math.max(3,total/top*100)}%"></b></i><strong>${money(base)}</strong><span>${money(fee)}</span><strong>${money(total)}</strong></div>`}).join('');
+ let opened=b.openingTime||b.opensAt||b.publishedAt,final=b.finalAt||b.final_at||b.deadline,results=b.resultsAt||b.results_at;
+ document.title=`${b.title} | make.fun`;
+ root.innerHTML=`${embedded?'':`<nav class="crumb"><a href="#/">← All bounties</a><span>/</span><span>${esc(b.title)}</span></nav>`}<div class="detail-top"><div><p class="eyebrow">LIVE BOUNTY · ${esc(b.category||'COMPETITION')}</p><h1>${esc(b.title)}</h1><p class="lead">${esc((b.description||b.summary||'A live make.fun competition.').split(/[.!?]/)[0])}.</p></div><a class="button enter" href="https://make.fun/bounty/${encodeURIComponent(slug)}">Enter on make.fun ↗</a></div>
+ <div class="detail-stats"><div><span>LIVE POT</span><b>${pot(b)}</b><small>${money(b.rewardAmount||0)} rewards + ${money(b.entryFeesUsd||0)} fees</small></div><div><span>ENTRY FEE</span><b>${b.entryFeeUsd!=null?money(b.entryFeeUsd):'Free'}</b><small>one-time entry</small></div><div><span>TIME LEFT</span><b data-deadline="${esc(b.deadline)}">${left(b.deadline)}</b><small>Closes ${date(b.deadline)}</small></div><div><span>ENTRIES</span><b>${Number(b.submissionCount||0).toLocaleString()}</b><small>${Number(b.entryFeePayers||0).toLocaleString()} passed checks</small></div></div>
+ <div class="detail-tabs"><a class="active" href="#/bounty/${encodeURIComponent(slug)}">Overview</a><a href="#/bounty/${encodeURIComponent(slug)}/leaderboard">Leaderboard →</a></div><div class="prize-layout"><section class="reward-card"><h2>Rewards at today’s pot</h2><div class="reward-head"><span>Place</span><span>Share</span><span>Base</span><span>Fee share</span><span>Pays now</span></div><div class="reward-bands">${grouped||`<p>${money(b.rewardAmount)} prize pool</p>`}</div><p class="tiny-note">Live amounts update as entry fees join the pot.</p></section><section class="phase-card"><h2>Dates &amp; phases</h2><div class="phase-list"><p><i></i><span>Opened</span><b>${date(opened)}</b></p><p><i></i><span>Development</span><b>Now</b></p><p class="now"><i></i><span>Current phase</span><b>Entries open</b></p><p><i></i><span>Deadline</span><b>${date(b.deadline)}</b></p><p><i></i><span>Final</span><b>${date(final)}</b></p><p><i></i><span>Results</span><b>${date(results)}</b></p></div></section></div><article class="detail-copy"><h2>The challenge</h2><div class="prose">${description(b.description||b.summary||'')}</div>${b.rules?`<h2>Rules</h2><div class="rules">${description(b.rules)}</div>`:''}</article>`;return b
 }

diff --git a/app/main.js b/app/main.js
@@ -1,5 +1,7 @@
+import {requestStats,refreshCached} from './api.js';
 const root=document.querySelector('#app');let timer,version=0;
 const esc=x=>String(x??'').replace(/[&<>"']/g,c=>`&#${c.charCodeAt(0)};`);
 function tick(){root.querySelectorAll('[data-deadline]').forEach(n=>{let ms=new Date(n.dataset.deadline)-Date.now();if(ms<=0){n.textContent='Ended';return}let d=Math.floor(ms/864e5),h=Math.floor(ms%864e5/36e5),m=Math.floor(ms%36e5/6e4);n.textContent=d?`${d}d ${h}h left`:h?`${h}h ${m}m left`:`${m}m left`})}
-async function render(){let id=++version;window.__shotReady=false;clearInterval(timer);root.innerHTML='<p class="loading">Loading live data…</p>';try{let p=(location.hash||'#/').slice(2).split('/').filter(Boolean).map(decodeURIComponent),view;if(p[0]==='profile'){view=await import('./profile.js');await view.show(root,p[1])}else if(p[0]==='bounty'&&p[2]==='leaderboard'){view=await import('./leaderboard.js');await view.show(root,p[1])}else{view=await import('./board.js');await view.show(root,p[0]==='bounty'?p[1]:null)}if(id!==version)return;tick();timer=setInterval(tick,1000);window.scrollTo(0,0);window.__shotReady=true}catch(e){if(id!==version)return;root.innerHTML=`<section class="error"><h1>Live data unavailable</h1><p>${esc(e.message)}</p><a href="#/">Return to board</a></section>`;window.__shotReady=true}}
+function transparency(){let sec=Math.max(0,Math.floor((Date.now()-requestStats.updatedAt)/1000));return `<div class="transparency"><span>this view: ${requestStats.requests} API request${requestStats.requests===1?'':'s'}, ${requestStats.unchanged} unchanged (304), ${requestStats.memory} from memory, updated ${sec} s ago</span><button id="refresh" type="button">↻ Refresh</button></div>`}
+async function render(){let id=++version;requestStats.requests=0;requestStats.unchanged=0;requestStats.memory=0;window.__shotReady=false;clearInterval(timer);root.innerHTML='<p class="loading">Loading live data…</p>';try{let p=(location.hash||'#/').slice(2).split('/').filter(Boolean).map(decodeURIComponent),view;if(p[0]==='profile'){view=await import('./profile.js');await view.show(root,p[1])}else{view=await import('./board.js');await view.show(root,p[0]==='bounty'?p[1]:null,p[2]==='leaderboard')}if(id!==version)return;root.insertAdjacentHTML('afterbegin',transparency());root.querySelector('#refresh')?.addEventListener('click',()=>{refreshCached();render()});tick();timer=setInterval(tick,1000);window.scrollTo(0,0);window.__shotReady=true}catch(e){if(id!==version)return;root.innerHTML=`<section class="error"><h1>Live data unavailable</h1><p>${esc(e.message)}</p><a href="#/">Return to board</a></section>`;window.__shotReady=true}}
 window.addEventListener('hashchange',render);render();

diff --git a/app/api.js b/app/api.js
@@ -1,17 +1,21 @@
 const root = 'https://make.fun/api';
 const responseCache = new Map();
 const inFlightFetches = new Map();
+export const requestStats={requests:0,unchanged:0,memory:0,updatedAt:Date.now()};
+export function refreshCached(){for(const value of responseCache.values())value.time=0}
 export function cachedRevalidatedFetch(path) {
   const url = root + path;
   const old = responseCache.get(url);
-  if (old && Date.now() - old.time < 60000) return Promise.resolve(old.data);
+  if (old && Date.now() - old.time < 60000) {requestStats.memory++;return Promise.resolve(old.data)}
   if (inFlightFetches.has(url)) return inFlightFetches.get(url);
   const headers = old?.etag ? { 'If-None-Match': old.etag } : {};
+  requestStats.requests++;
   const task = fetch(url, { headers }).then(async (response) => {
-    if (response.status === 304 && old) { old.time = Date.now(); return old.data; }
+    if (response.status === 304 && old) { old.time = Date.now();requestStats.unchanged++;requestStats.updatedAt=Date.now();return old.data; }
     if (!response.ok) throw new Error(`make.fun returned ${response.status}`);
     const data = await response.json();
     responseCache.set(url, { data, etag: response.headers.get('ETag'), time: Date.now() });
+    requestStats.updatedAt=Date.now();
     return data;
   }).finally(() => inFlightFetches.delete(url));
   inFlightFetches.set(url, task);

diff --git a/main.ts b/main.ts
@@ -5,7 +5,7 @@
 // and bytes, and your source), with the vendored make.fun library. Leave vendor/makefun-frontend.ts as it is: the
 // scorer requires dossier.json to be byte for byte what its own copy writes.
 //
-// A compact live frontend with prize-first bounty details embedded on the board and available by hash route. Keep
+// A persistent live board rail, compact prize-first bounty detail, windowed leaderboard and grouped profiles share hash routes. Keep
 // three PNG or JPEG screenshots of the live board, leaderboard, and profile in screenshots/; shots.json identifies
 // each view, and the first by name is the cover image consumed by the dossier.
 //

diff --git a/app/ui.js b/app/ui.js
@@ -1,0 +1,1 @@
+export const ready=new Promise(resolve=>{let link=document.querySelector('#surface-style');if(link){if(link.sheet)resolve();else link.addEventListener('load',resolve,{once:true});return}link=document.createElement('link');link.id='surface-style';link.rel='stylesheet';link.href='/style.css';link.onload=resolve;link.onerror=resolve;document.head.append(link)});

diff --git a/app/index.html b/app/index.html
@@ -5,7 +5,6 @@
 <meta name="viewport" content="width=device-width,initial-scale=1">
 <link rel="icon" href="favicon.svg" type="image/svg+xml">
 <title>Live bounty board | make.fun</title>
-<link rel="stylesheet" href="style.css">
 <script type="module" src="main.js"></script>
 </head>
 <body>
